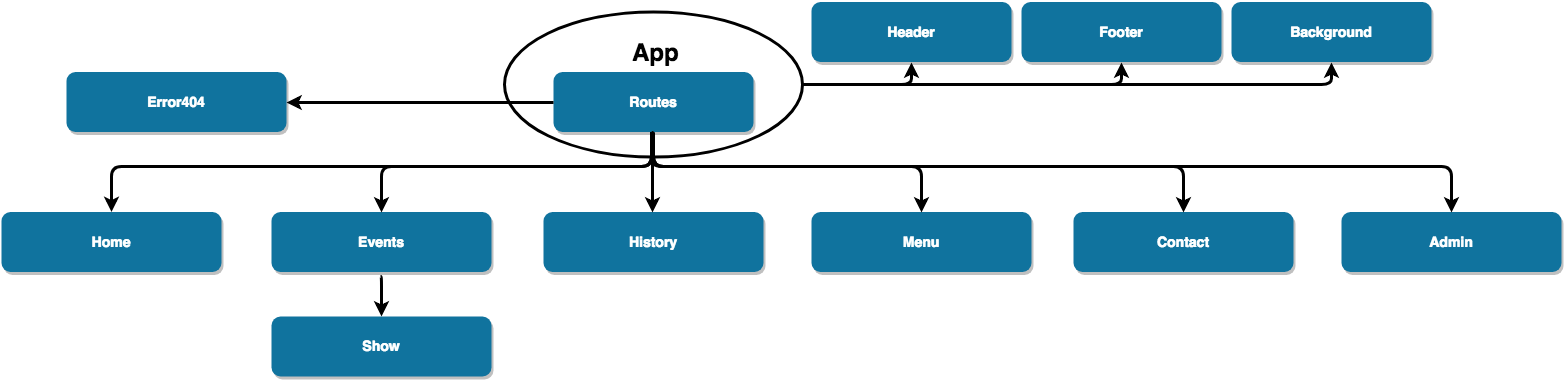
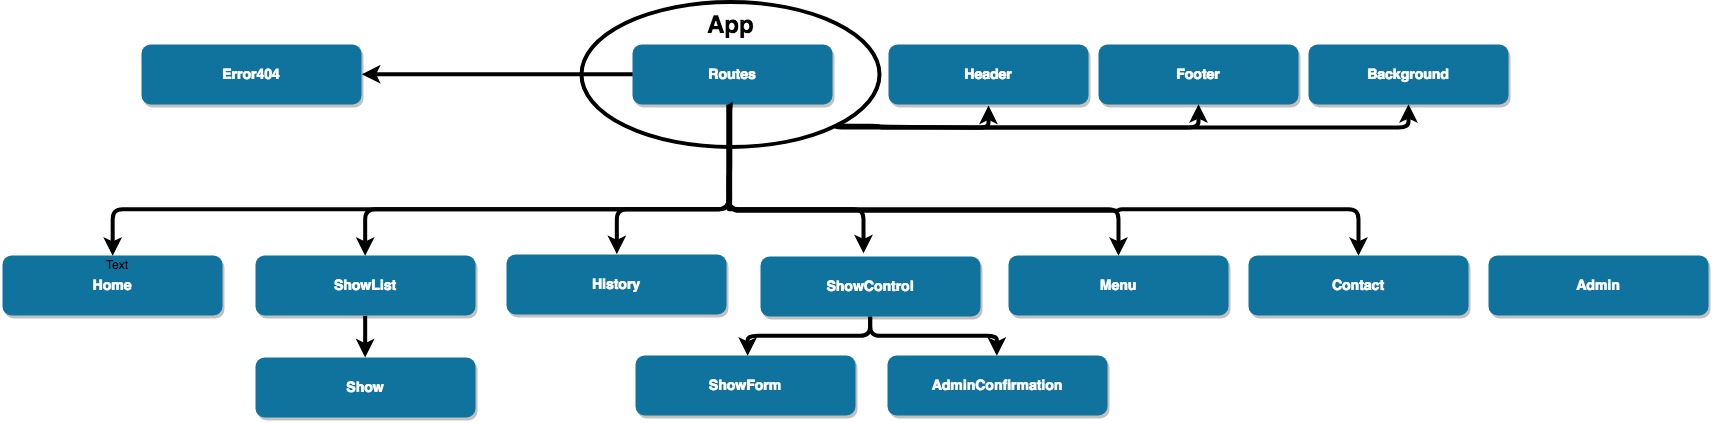
update component tree in readme

diff --git a/src/components/ShowForm.jsx b/src/components/ShowForm.jsx
@@ -1,6 +1,15 @@
 import React from 'react';
 
 function ShowForm() {
+  let _date = null;
+  let _headliner = null;
+  let _opener = null;
+  let _time = null;
+  let _price = null;
+
+  function handleSubmission(event) {
+    event.preventDefault();
+  }
   return (
     <div >
       <style jsx>{`
@@ -19,32 +28,37 @@ function ShowForm() {
       <h1>Add New Show</h1>
         <div className="card">
 
-      <form>
+      <form onSubmit={handleSubmission}>
         <input
           type='text'
           id='date'
           placeholder='Date'
-        /><br/>
+          ref={(input) => {_date = input;}}/>
+        <br/>
         <input
           type='text'
           id='headliner'
           placeholder='Headliner'
-        /><br/>
+          ref={(input) => {_headliner = input;}}/>
+        <br/>
         <input
           type='text'
           id='opener'
           placeholder='Opener'
-        /><br/>
+          ref={(input) => {_opener = input;}}/>
+        <br/>
         <input
           type='text'
           id='time'
           placeholder='Door Time'
-        /><br/>
+          ref={(input) => {_time = input;}}/>
+        <br/>
         <input
           type='text'
           id='price'
           placeholder='Ticket Price'
-        /><br/>
+          ref={(input) => {_price = input;}}/>
+        <br/>
       <button type='submit'>Save</button>
       </form>
 </div>
